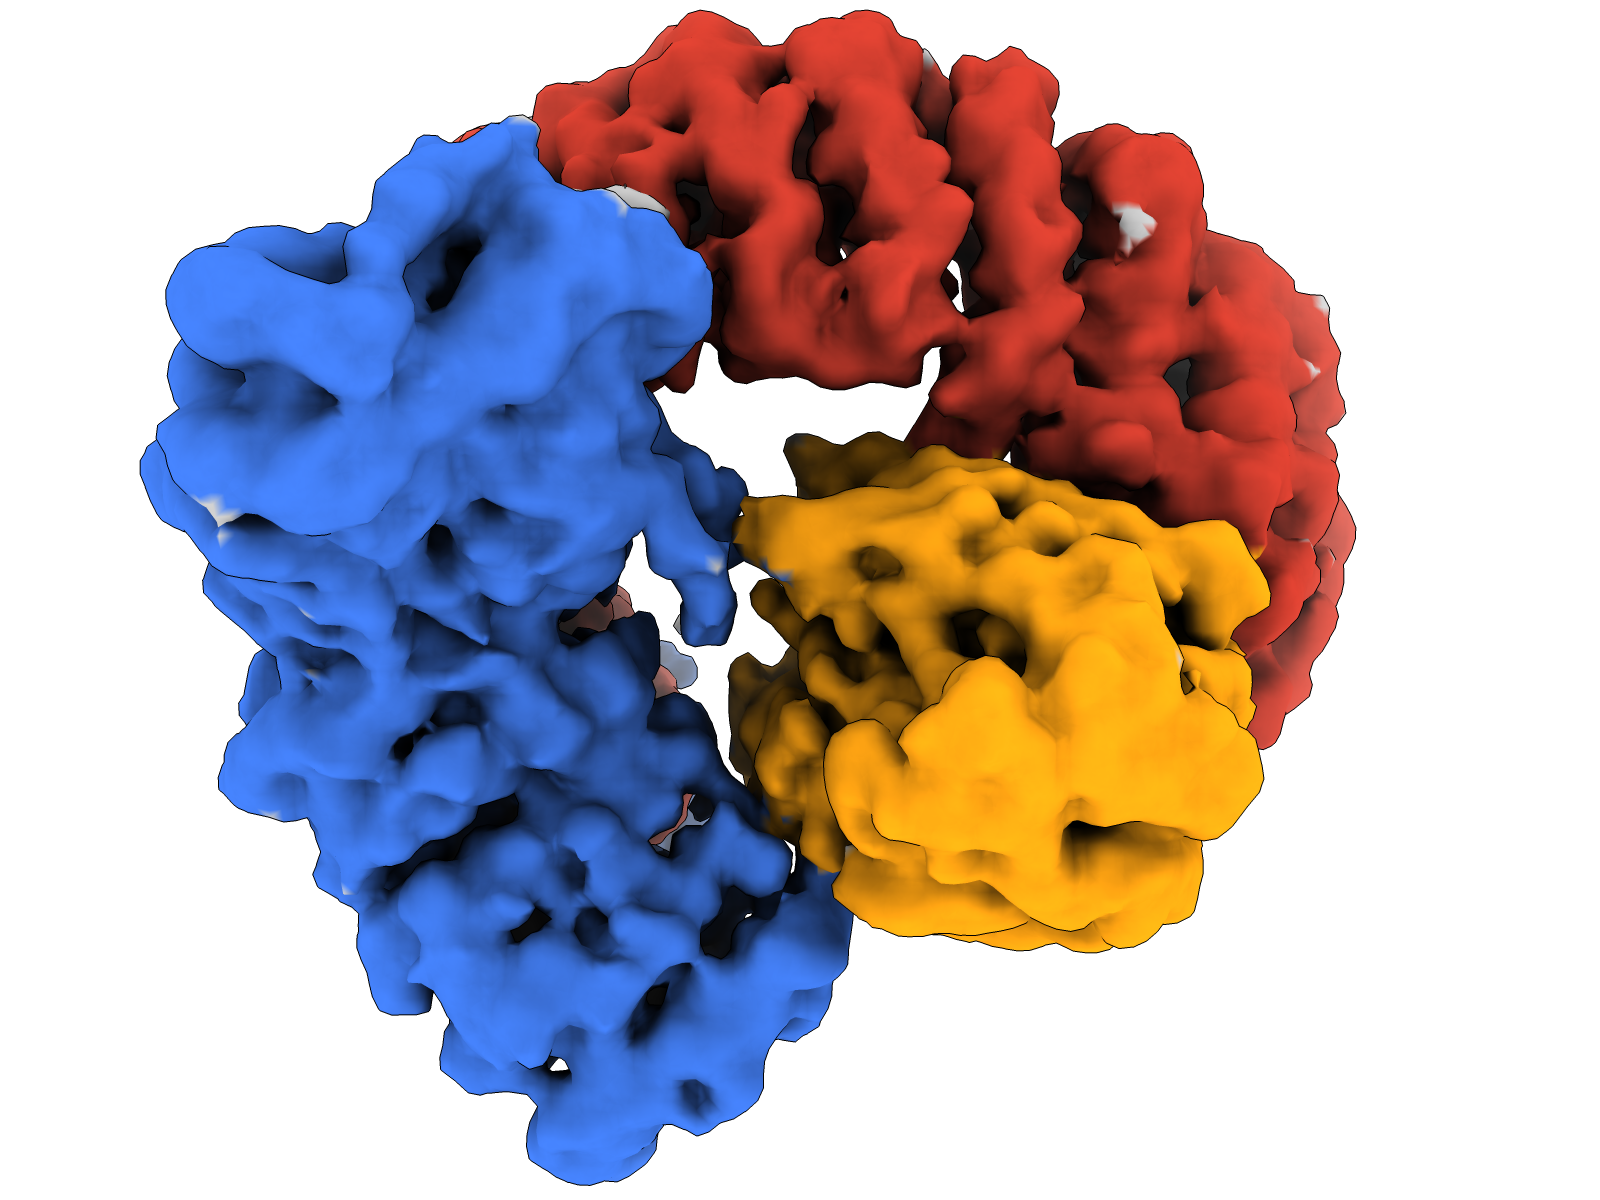
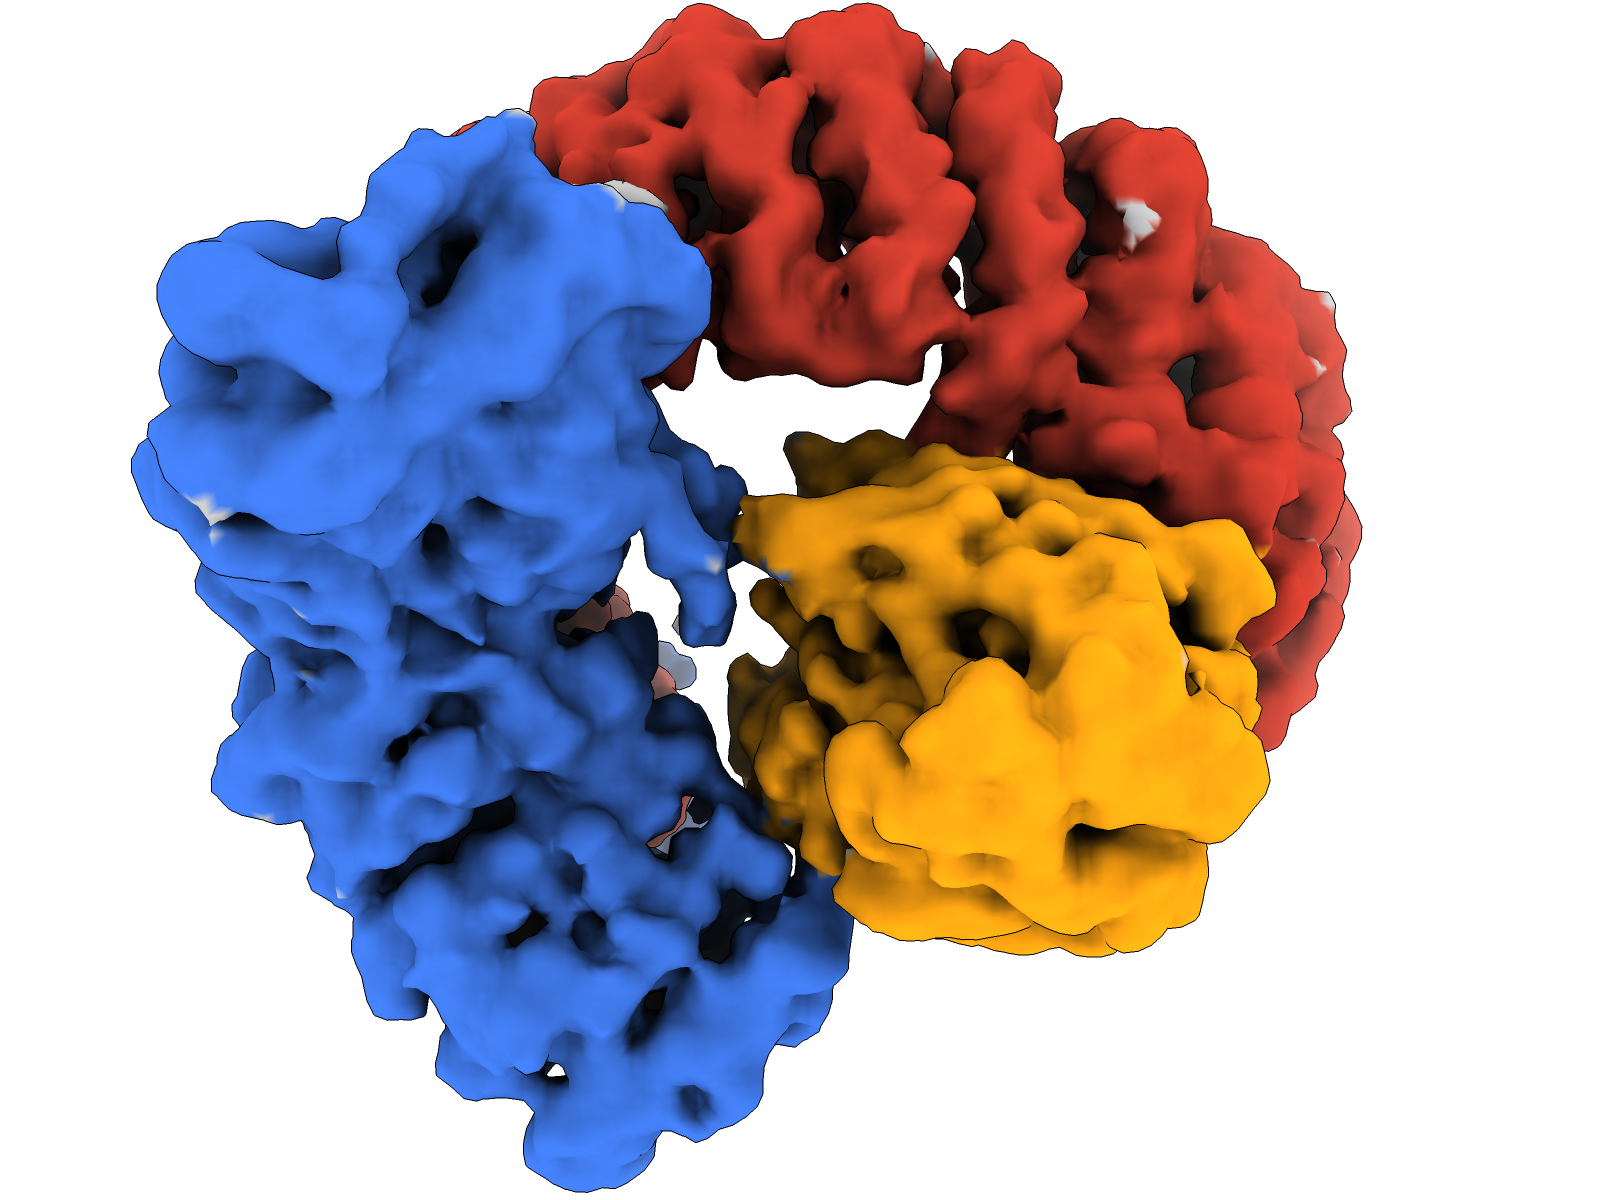
CryoSPARC local-resolution and FSC jobs completed for both isoforms; parse the v5 FSC text format
Claude-Session: https://claude.ai/code/session_01MR4HqkPpqUuLwia8CioFgG

diff --git a/cryoEM/pp2a_day2025_reproduction/scripts/27_em_figures.py b/cryoEM/pp2a_day2025_reproduction/scripts/27_em_figures.py
@@ -171,13 +171,11 @@ def main():
             curves.append(("Phenix mtriage map vs model (masked)", x, y, "#ff7f0e", "-"))
         for cs_txt in sorted(glob.glob(os.path.join(DATA, "em", "cryosparc", f"{iso}_fsc_*fsc*.txt"))):
             try:
-                arr = np.loadtxt(cs_txt, skiprows=1)
-                # CryoSPARC fsc txt: wave_number, fsc_nomask, fsc_sphericalmask, fsc_loosemask, fsc_tightmask, fsc_noisesub_...
-                n_box = 256
-                psize = 1.056 if iso == "Aa" else 1.058
-                x = arr[:, 0] / (n_box * psize)
+                arr = np.loadtxt(cs_txt, skiprows=2)
+                # CryoSPARC v5 Validation (FSC) txt: wave_number, frequency (1/A), fsc_nomask, fsc_sphericalmask, fsc_resmask
+                x = arr[:, 1]
                 y = arr[:, -1]
-                curves.append(("CryoSPARC v5 Validation (FSC), corrected", x, y, "#9467bd", ":"))
+                curves.append(("CryoSPARC v5 Validation (FSC), auto res-mask", x, y, "#9467bd", ":"))
                 r = res_at(x, y, 0.143)
                 row(iso, "half-map resolution FSC 0.143", "CryoSPARC v5 Validation (FSC)", r, "A", PAPER_S1["Map resolution (FSC 0.143) [A]"][iso], "Table S1")
                 table["Map resolution (FSC 0.143) [A]"][iso] += f"; {r:.2f} (CryoSPARC v5)"
